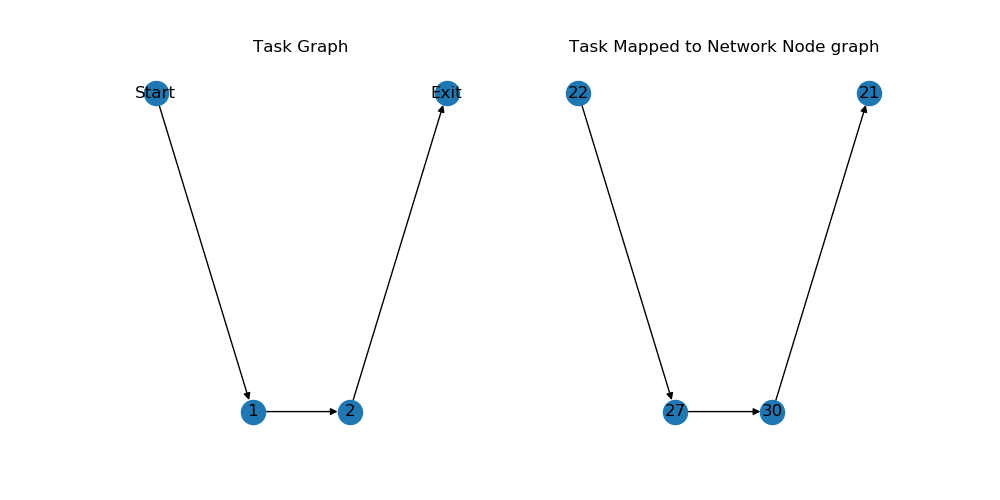
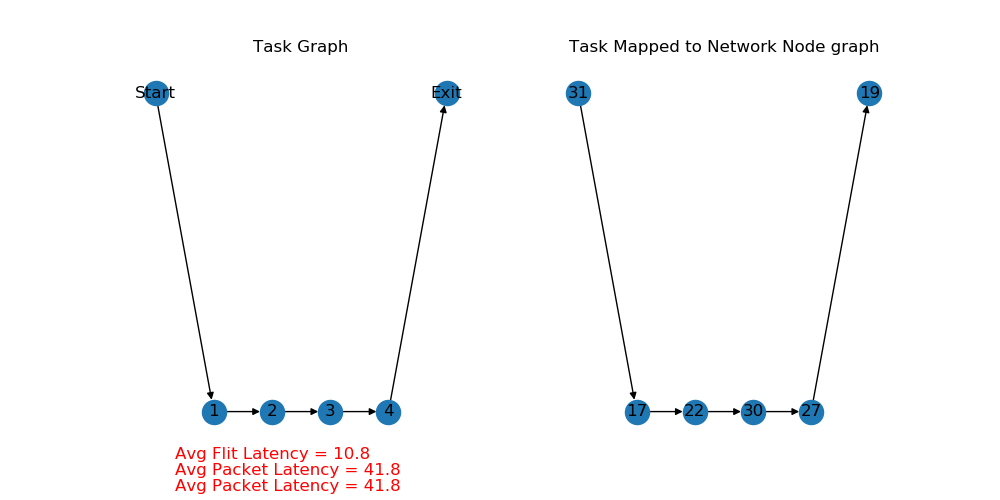
+ automatic pipeline

diff --git a/training_data/utils/Map_Generator.py b/training_data/utils/Map_Generator.py
@@ -74,7 +74,7 @@ class MapGenerator:
     def doGraphRemapping(self, g1, renaming_dict):
         return nx.relabel_nodes(g1, renaming_dict)
 
-    def plotTaskAndMap(self, task_graph, task_positon, map_graph, map_position):
+    def plotTaskAndMap(self, task_graph, task_positon, map_graph, map_position, lat_list=[]):
         fig, axes = plt.subplots(nrows=1, ncols=2, figsize=(10, 5))
 
         nx.draw(task_graph, arrows=True,with_labels=True, pos=task_positon, ax=axes[0])
@@ -82,6 +82,12 @@ class MapGenerator:
 
         nx.draw(map_graph, arrows=True,with_labels=True, pos=map_position, ax=axes[1])
         axes[1].set_title('Task Mapped to Network Node graph')
+        
+        if lat_list:
+            axes[0].text(1, 0.7, 'Avg Flit Latency = ' + str(lat_list[0]), fontsize=12, color='red')
+            axes[0].text(1, 0.6, 'Avg Packet Latency = ' + str(lat_list[1]), fontsize=12, color='red')
+            axes[0].text(1, 0.5, 'Avg Packet Latency = ' + str(lat_list[2]), fontsize=12, color='red')
+
         plt.savefig("Graphs.png", format="PNG")
 
 

diff --git a/training_data/generate.py b/training_data/generate.py
@@ -64,10 +64,21 @@ if run_sim:
     process = subprocess.Popen(command, shell=True, stdout=subprocess.PIPE, stderr=subprocess.PIPE, text=True)
 
     for line in process.stdout:
+        print(line, end=' ')
         if successfull_string in line:
-            print("\nSim Successfull")
             sim_successfull_flag = True
 
 if sim_successfull_flag:
-    result = pd.read_csv('ratatoskr/results/report_Performance.csv', index_col=None)
-    print(result)
+    result = pd.read_csv('ratatoskr/results/report_Performance.csv', header=None)
+    result_values = result.values.tolist()
+
+    avg_flit_lat = result_values[0][1]
+    avg_packet_lat = result_values[1][1]
+    avg_network_lat = result_values[2][1]
+
+    latency_list = [avg_flit_lat, avg_packet_lat, avg_network_lat]
+    mapper.plotTaskAndMap(task_graph, dag.position, map_graph, new_pos, latency_list)
+
+
+
+
